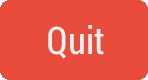
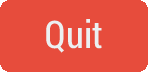
fixed pak file bug for NekoPak, updated Quit image but haven't yet repositioned main menu buttons to compensate for it

diff --git a/NekoPak/Program.cs b/NekoPak/Program.cs
@@ -26,7 +26,7 @@ namespace NekoPak {
     static extern int pak_create([MarshalAs(UnmanagedType.LPStr)] string filename);
 
     [DllImport("neko.dll")]
-    static extern IntPtr pak_open([MarshalAs(UnmanagedType.LPStr)] string filename);
+    static extern IntPtr pak_open2([MarshalAs(UnmanagedType.LPStr)] string filename);
 
     [DllImport("neko.dll")]
     static extern int pak_insert(IntPtr pak, [MarshalAs(UnmanagedType.LPStr)] string filename, [MarshalAs(UnmanagedType.LPStr)] string nameInPak);
@@ -140,7 +140,7 @@ namespace NekoPak {
       if (File.Exists(path))
         File.Delete(path);
       pak_create(pakFilename);
-      IntPtr pak = pak_open(Path.GetFullPath(args[1]));
+      IntPtr pak = pak_open2(Path.GetFullPath(args[1]));
       Console.WriteLine("Pak'n files into " + pakFilename + "...");
       foreach (string file in files) {
         string storeName = file.Substring(file.IndexOf(path) + path.Length).Replace('\\', '/');

diff --git a/NekoEngine/pak.c b/NekoEngine/pak.c
@@ -69,6 +69,25 @@ PAK_FILE *pak_open(char *filename) {
   return pak;
 }
 
+PAK_FILE *pak_open2(char *filename) {
+  PAK_FILE *pak;
+  FILE *fp;
+
+  //fp = fopen(filename, "rb+");
+  fopen_s(&fp, filename, "rb+");
+  if (!fp)
+    return (PAK_FILE *)pak_error(NULL, PAKERROR_OPEN);
+
+  pak = (PAK_FILE *)malloc(sizeof(PAK_FILE));
+  if (!pak)
+    return (PAK_FILE *)pak_error(fp, PAKERROR_MALLOC);
+  pak->handle = fp;
+  if (!fread_s(&pak->header, sizeof(PAK_HEADER), sizeof(PAK_HEADER), 1, pak->handle))
+    return (PAK_FILE *)pak_error(fp, PAKERROR_READ);
+
+  return pak;
+}
+
 PAK_ERROR pak_close(PAK_FILE *pak) {
   fclose(pak->handle);
   free(pak);

diff --git a/NekoEngine/pak.h b/NekoEngine/pak.h
@@ -57,6 +57,7 @@ NEKO_API PAK_ERROR pak_insert(PAK_FILE *, char *, char *);
 NEKO_API PAK_ERROR pak_insert_data(PAK_FILE *pak, char *nameInPak, char *data, size_t dataSize);
 NEKO_API PAK_ERROR pak_extract(PAK_FILE *, char *);
 NEKO_API PAK_FILE *pak_open(char *);
+NEKO_API PAK_FILE *pak_open2(char *);
 NEKO_API PAK_ERROR pak_close(PAK_FILE *);
 PAK_SECTION *pak_getSection(PAK_FILE *, const char *);
 NEKO_API void *pak_load(PAK_FILE *, const char *, size_t *);
